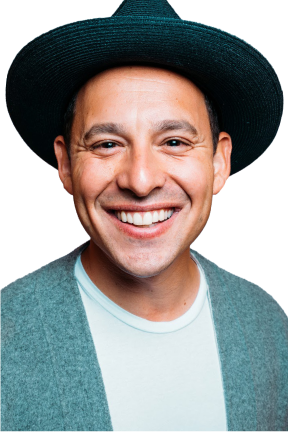
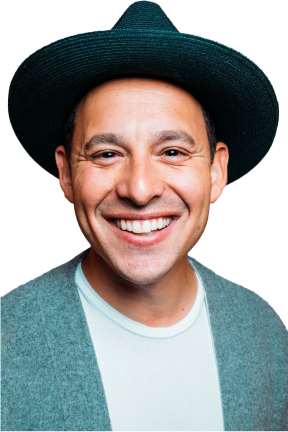
fix harley and CLS caused by image load

diff --git a/src/components/general/Speakers.vue b/src/components/general/Speakers.vue
@@ -18,6 +18,8 @@
 						:src="getImage(name)"
 						:alt="name + '\'s Photo'"
 						class="image-speaker"
+						width="288"
+						height="432"
 					/>
 				</div>
 				<!-- OVERLAY -->
